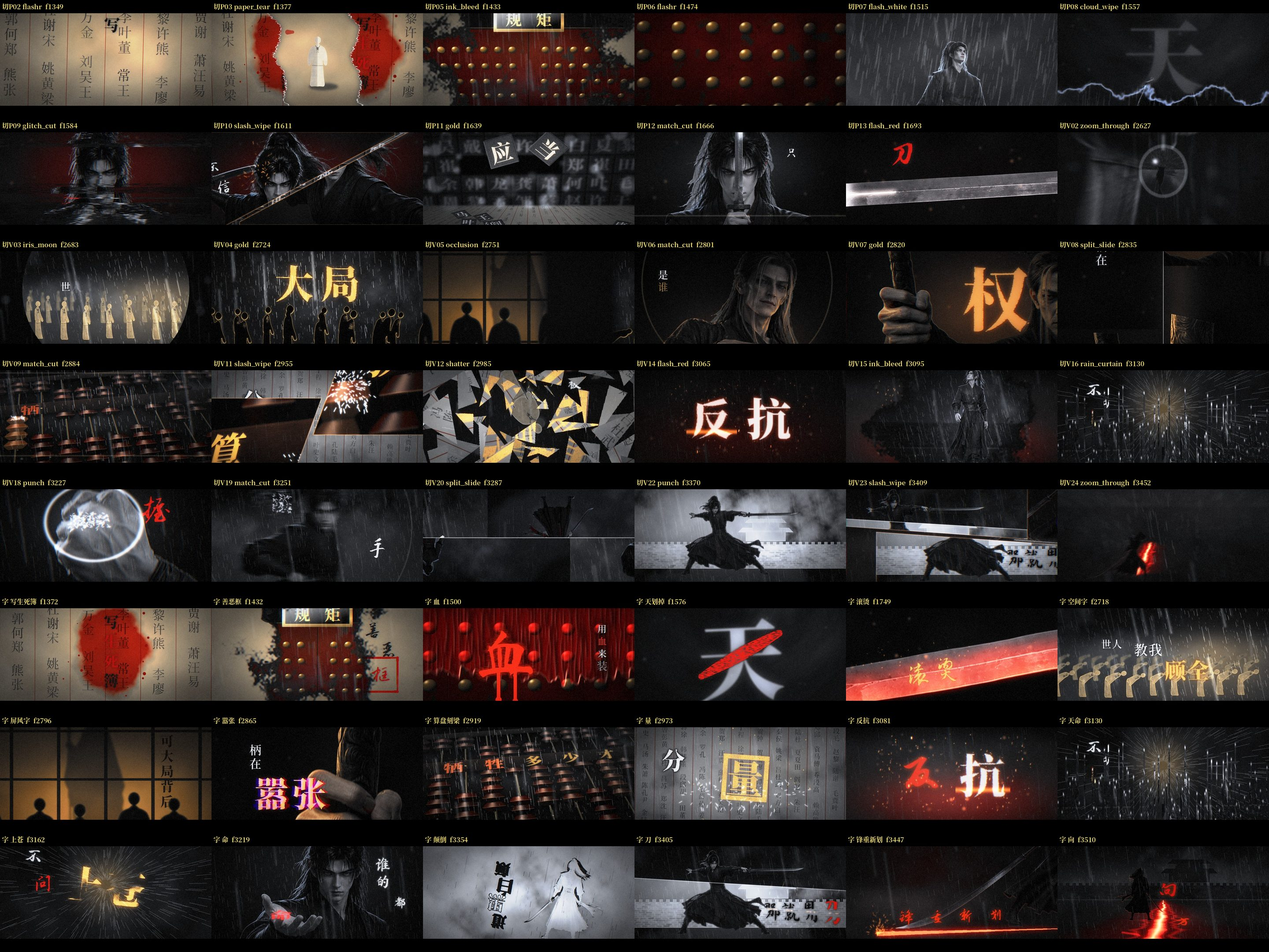
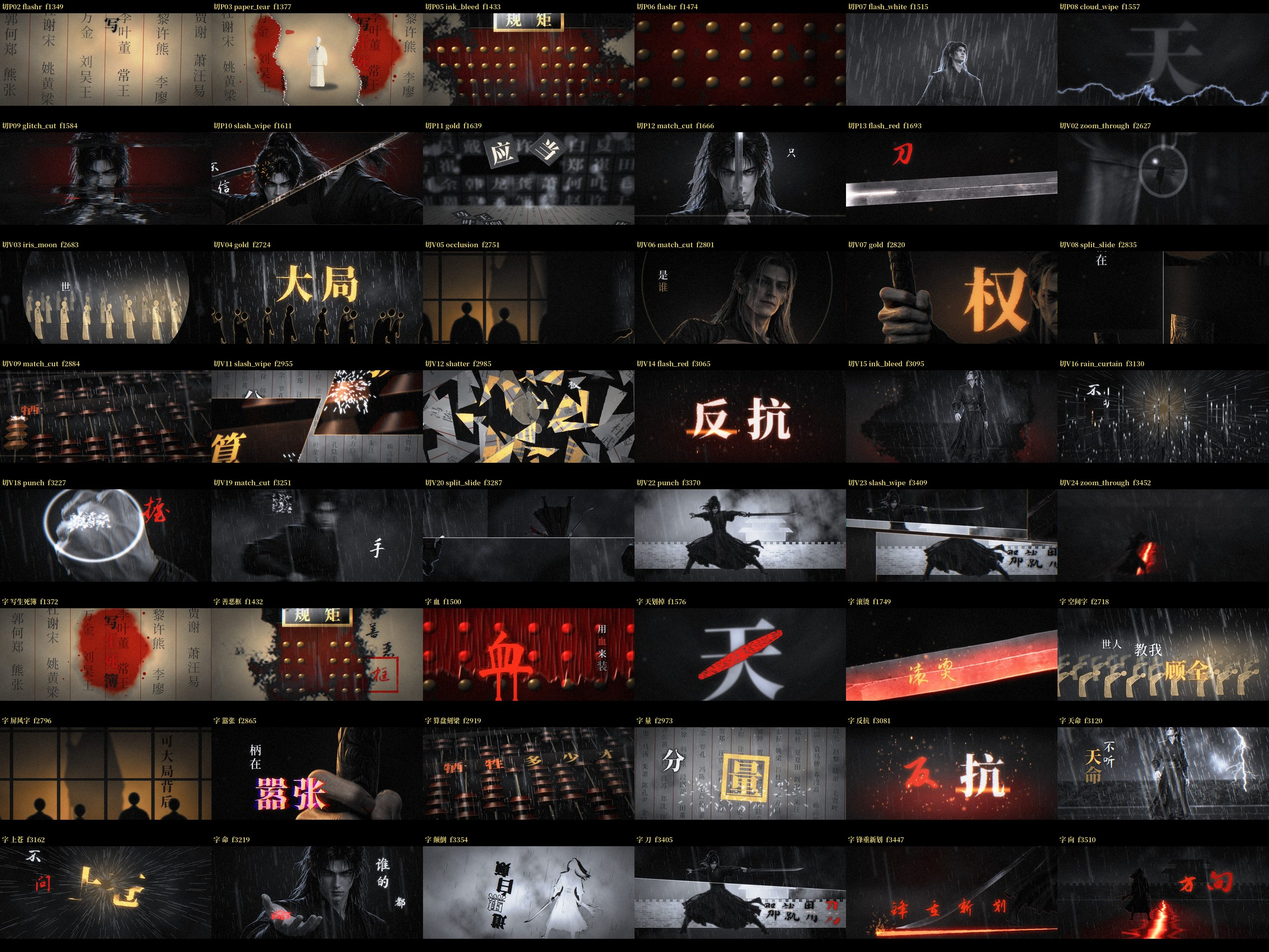
[B组] V23「锋重新划」放大上移；V25「方向」横排 250/300px 段尾主词；B_contact_v4 / B_keys_v4

Changed region(s): [[0.8125, 0.7444, 1.0, 0.8685], [0.9062, 0.8995, 0.9688, 0.9616], [0.6875, 0.9306, 0.8125, 0.9616]]

diff --git a/units/sec_b_verse2.py b/units/sec_b_verse2.py
@@ -1380,9 +1380,9 @@ class V25(Shot):
                     shade=None, wrap=0.2)
         pr = prs(27, [10], t, 0.3)[0]
         if pr > 0:
-            fr = T.burn_in(fr, '向', pr, places=[dict(ch='向', x=1330, y=440, size=300, rot=0, font='xing', idx=0, emph=False)],
+            fr = T.burn_in(fr, '向', pr, places=[dict(ch='向', x=1460, y=450, size=300, rot=0, font='xing', idx=0, emph=False)],
                            color='red', embers=140, seed=69, style_kw=dict(shadow=0.4, glow=0.7, glow_color=(1.0, 0.3, 0.08)))
-        Lf = T.Layer(); T.place(Lf, '方', 1300, 800, 270, color=(0.9, 0.16, 0.06), fname='xing', alpha=0.9, sy=0.6, rot=-4)   # 第四棒：段尾主词放大
+        Lf = T.Layer(); T.place(Lf, '方', 1170, 470, 250, color=(0.9, 0.16, 0.06), fname='xing', alpha=0.9, rot=-3)   # 第四棒：段尾主词放大、与「向」横排同读
         fr = T.compose(fr, Lf, shadow=0.5, glow=0.5, glow_color=(1.0, 0.3, 0.08))
         fr = self.rain.draw(fr, t, intensity=0.9, angle=8)
         end = clamp01((t - 117.33) / 0.45)
